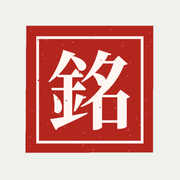
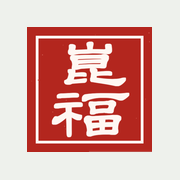
朱印改為隸書「崑福」：App 圖示、掛軸小印、存成圖片
印章以教育部隸書繪成圖片，不含字型檔；README 註明出處與授權。

Claude-Session: https://claude.ai/code/session_017a1SUN3SW4Gn7cevnBXfsY

Changed region(s): [[0.1944, 0.1944, 0.8056, 0.8056], [0.1389, 0.1389, 0.8611, 0.8611]]

diff --git a/index.html b/index.html
@@ -60,7 +60,7 @@ main{flex:1;overflow-y:auto;-webkit-overflow-scrolling:touch;padding:6px 20px 24
 .motto.s1{font-size:34px}.motto.s2{font-size:28px}.motto.s3{font-size:23px}.motto.s4{font-size:20px}
 .meta{display:flex;flex-direction:column;justify-content:flex-end;align-items:center;gap:12px}
 .src{-webkit-writing-mode:vertical-rl;writing-mode:vertical-rl;color:var(--muted);font-family:var(--font-display);font-weight:500;font-size:14px;letter-spacing:.12em;margin:0}
-.seal{background:var(--seal);color:var(--seal-ink);font-family:var(--font-display);font-weight:700;font-size:13px;line-height:1.15;width:34px;padding:5px 0;text-align:center;border-radius:3px;transform:rotate(-3deg)}
+.seal{display:block;width:42px;height:42px;transform:rotate(-3deg)}
 .scroll.h{flex-direction:column;align-items:stretch}
 .scroll.h .motto{-webkit-writing-mode:horizontal-tb;writing-mode:horizontal-tb;height:auto;max-height:none;letter-spacing:.02em;line-height:1.6}
 .scroll.h .meta{flex-direction:row;justify-content:space-between}
@@ -125,7 +125,7 @@ nav button[aria-current="page"]{color:var(--ink);font-weight:700;border-top-colo
         <p class="motto" id="mottoText"></p>
         <div class="meta">
           <p class="src" id="mottoSrc"></p>
-          <div class="seal" id="seal">今<br>日</div>
+          <img class="seal" id="seal" alt="崑福印" width="42" height="42">
         </div>
       </div>
       <div class="actions">
@@ -471,7 +471,6 @@ function renderToday(){
   if(horizontal){m.textContent=q.text;}
   else{parts=clauses(q.text);for(i=0;i<parts.length;i++){m.appendChild(el('span',null,parts[i]));}}
   $('mottoSrc').textContent=q.src||'自勉';
-  $('seal').innerHTML=ui.random?'隨<br>手':'今<br>日';
   var fav=!!state.fav[q.id];
   $('btnFav').textContent=fav?'已收藏':'收藏';
   $('btnFav').className='btn'+(fav?' on':'');
@@ -561,6 +560,9 @@ function show(view){
 }
 
 /* ---------- 存成圖片 ---------- */
+/* 朱印「崑福」：以教育部隸書（CC BY-ND 3.0 TW）繪成的圖片 */
[1 lines of base64/hex data omitted]
+var sealImg=new Image();sealImg.src=SEAL_SRC;
 var CARD_FONT='"Noto Serif TC","Songti TC","PMingLiU","Noto Serif CJK TC",serif';
 var cardBlob=null;
 function columnsOf(text){
@@ -713,10 +715,10 @@ function drawCard(q){
     var step=size*1.16,colW=size*1.6,x0=left+(availW+n*colW)/2-colW/2,y0=top+(availH-maxLen*step)*0.25;
     g.fillStyle=INK;g.font='700 '+size+'px '+CARD_FONT;
     for(i=0;i<n;i++){for(j=0;j<cols[i].length;j++){vchar(g,cols[i].charAt(j),x0-i*colW,y0+(j+0.5)*step);}}
-    var sx=PL+78,sealY=PB-140,ss=Math.min(34,Math.floor(520/(src.length*1.18))),sstep=ss*1.18,sy=sealY-84-src.length*sstep;
+    var sx=PL+78,sealY=PB-120,ss=Math.min(34,Math.floor(520/(src.length*1.18))),sstep=ss*1.18,sy=sealY-72-src.length*sstep;
     g.fillStyle=MUTED;g.font='500 '+ss+'px '+CARD_FONT;
     for(j=0;j<src.length;j++){vchar(g,src.charAt(j),sx,sy+(j+0.5)*sstep);}
-    drawSeal(g,sx,sealY,SEAL);
+    drawSeal(g,sx,sealY);
   }else{
     var hs=q.text.length>60?44:54,lines,lh;
     g.font='700 '+hs+'px '+CARD_FONT;g.fillStyle=INK;g.textAlign='left';
@@ -726,20 +728,16 @@ function drawCard(q){
     g.fillStyle=MUTED;g.font='500 32px '+CARD_FONT;g.textAlign='right';
     g.fillText('—— '+src,PR-140,ty+lines.length*lh+50);
     g.textAlign='center';
-    drawSeal(g,PR-80,ty+lines.length*lh+50,SEAL);
+    drawSeal(g,PR-80,ty+lines.length*lh+50);
   }
   g.fillStyle='rgba(52,70,62,0.75)';g.font='500 24px '+CARD_FONT;g.textAlign='center';
   g.fillText('每日座右銘　'+stamp,W/2,(PB+22+SB)/2);
   return c;
 }
-function drawSeal(g,cx,cy,color){
-  /* 直式長方印，白文「崑福」由上而下 */
-  var w=70,ht=124;
+function drawSeal(g,cx,cy){
+  var s=100;
   g.save();g.translate(cx,cy);g.rotate(-0.04);
-  g.fillStyle=color;g.fillRect(-w/2,-ht/2,w,ht);
-  g.strokeStyle='rgba(255,247,242,0.9)';g.lineWidth=2.5;g.strokeRect(-w/2+6,-ht/2+6,w-12,ht-12);
-  g.fillStyle='#fff7f2';g.font='700 46px '+CARD_FONT;g.textAlign='center';g.textBaseline='middle';
-  g.fillText('崑',0,-ht/4+3);g.fillText('福',0,ht/4-3);
+  try{g.drawImage(sealImg,-s/2,-s/2,s,s);}catch(e){}
   g.restore();
 }
 function openImage(){
@@ -762,6 +760,13 @@ function openImage(){
     }catch(e){}
     $('imgView').className='on';
   }
+  function ready(){
+    if(sealImg.complete&&sealImg.naturalWidth){fontsThenGo();}
+    else{sealImg.onload=fontsThenGo;sealImg.onerror=fontsThenGo;setTimeout(fontsThenGo,1500);}
+  }
+  var started=false;
+  function fontsThenGo(){
+    if(started){return;}started=true;
   try{
     if(document.fonts&&document.fonts.load){
       document.fonts.load('700 60px "Noto Serif TC"',q.text+(q.src||'')+'崑福每日座右銘').then(go,go);
@@ -770,6 +775,8 @@ function openImage(){
     }
   }catch(e){}
   go();
+  }
+  ready();
 }
 
 var toastTimer=null;
@@ -821,6 +828,7 @@ function resetForm(){ui.editing=null;$('fText').value='';$('fSrc').value='';}
 
 function init(){
   load();
+  $('seal').src=SEAL_SRC;
   var sel=$('fCat'),opts=CATS.concat(['其他']),i,o;
   for(i=0;i<opts.length;i++){o=el('option',null,opts[i]);o.value=opts[i];sel.appendChild(o);}
   render();

diff --git a/sw.js b/sw.js
@@ -1,6 +1,6 @@
 /* 每日座右銘 service worker
    改版時把 VERSION 加一，舊快取會在啟用時清掉。 */
-var VERSION = 'motto-v3';
+var VERSION = 'motto-v4';
 var SHELL = [
   './',
   'index.html',

diff --git a/README.md b/README.md
@@ -15,8 +15,12 @@
 | `index.html` | App 本體 |
 | `manifest.json` | PWA 設定 |
 | `sw.js` | 離線快取（改版時把 `VERSION` 加一） |
-| `icons/` | 圖示（朱印「銘」） |
+| `icons/` | 圖示（朱印「崑福」） |
 
 ## 語錄來源
 
 部分句子取自 [chinese-poetry](https://github.com/chinese-poetry/chinese-poetry)（MIT）並逐字比對原文。
+
+## 字型
+
+朱印「崑福」以[教育部隸書](https://language.moe.gov.tw/)繪製成圖片使用，字形著作權屬中華民國教育部，依創用 CC 姓名標示－禁止改作 3.0 臺灣版授權。本 repo 不含字型檔。
